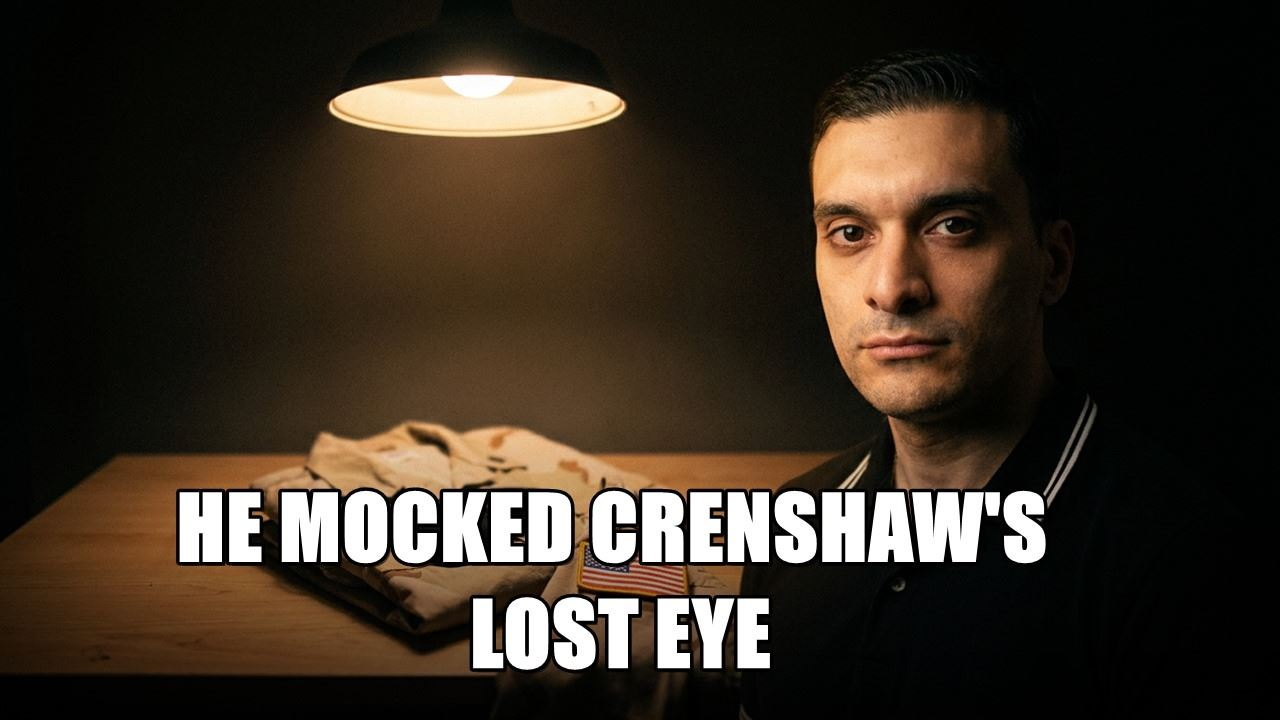
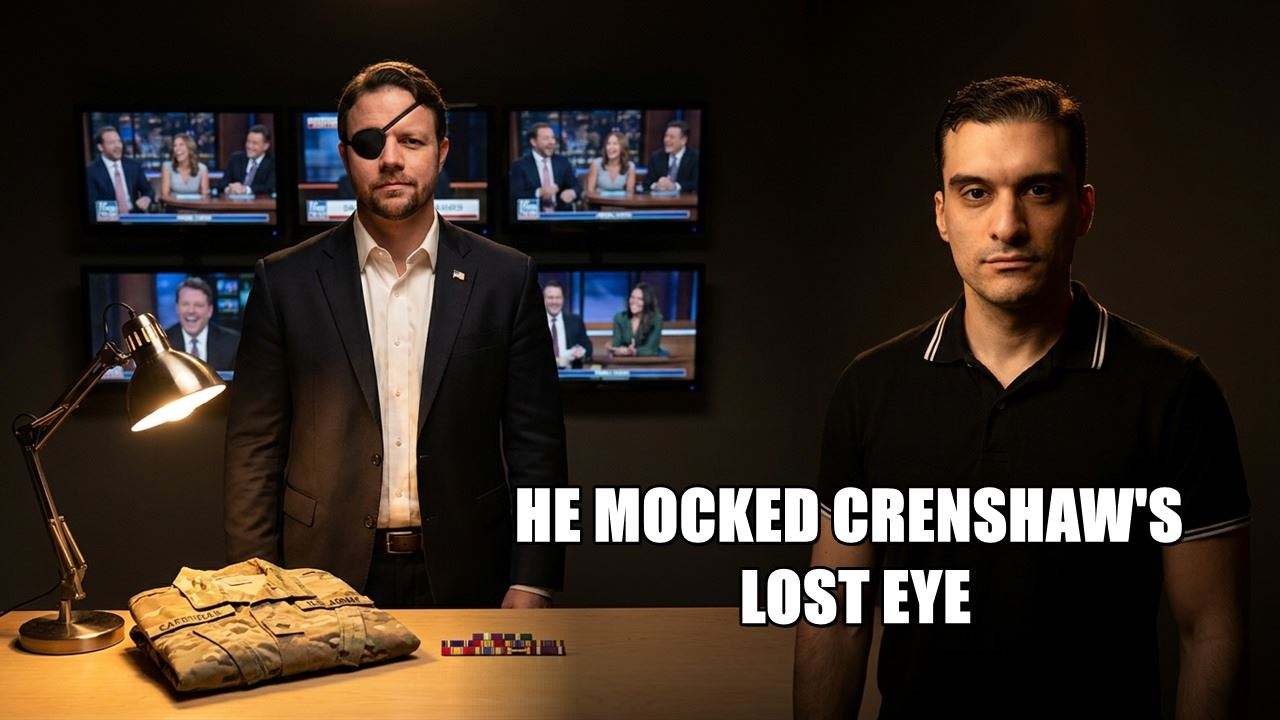
dashboards 2026-08-25T09:42:59Z

diff --git a/armin-shows.html b/armin-shows.html
@@ -270,13 +270,13 @@ dialog img{display:block;max-width:94vw;max-height:88vh}
 </header>
 
 <!-- Self-checking freshness banner: the page compares its own build time against the clock. -->
-<div id="freshbar" class="fresh" data-built="2026-08-25T09:19:45Z">
+<div id="freshbar" class="fresh" data-built="2026-08-25T09:42:58Z">
   <div class="fresh-l">
-    <b id="freshtitle">This page was updated Tue Aug 25, 17:19</b>
+    <b id="freshtitle">This page was updated Tue Aug 25, 17:42</b>
     <span id="freshage"></span>
   </div>
-  <span class="newtoday" id="newtoday" data-new="2"
-        title="Clips whose covers finished in the last 24 hours">New today: 2</span>
+  <span class="newtoday" id="newtoday" data-new="3"
+        title="Clips whose covers finished in the last 24 hours">New today: 3</span>
   <button type="button" id="freshreload" class="fresh-btn" hidden>Get the newest version</button>
 </div>
 
@@ -2858,32 +2858,8 @@ Join our daily group calls: https://www.skool.com/libertypolitics/about</p>
     <div class="vidwhy" hidden><textarea class="vidtext" rows="2" placeholder="Why are you not using this video? e.g. it starts in the middle of a sentence; it repeats the same point twice; the ending is cut off"></textarea></div>
     <div class="means none" aria-live="polite">Not answered yet.</div>
   </div>
-  <div class="cliptime">Added Aug 14 &middot; Covers made Aug 14 &middot; Ready Aug 22 &middot; <b>18:21</b></div>
+  <div class="cliptime">Added Aug 14 &middot; Covers made Aug 25 &middot; Ready Aug 22 &middot; <b>18:21</b></div>
   <div class="covers">
-    <div class="cov" data-var="C" data-head="HE MOCKED CRENSHAW&#39;S LOST EYE" data-title="He Mocked the Eye Dan Crenshaw Lost in Afghanistan (And Called It Satire)">
-      <button class="zoombtn" type="button" aria-label="Enlarge cover C"><img src="img/2026-08-14-english-S5-C.jpg" alt="Cover C: HE MOCKED CRENSHAW&#39;S LOST EYE" loading="lazy"><span class="zoomhint">Tap to enlarge</span></button>
-      <div class="covdec">
-        <div class="decq">&#128444;&#65039; This cover C</div>
-        <div class="decbtns">
-          <button class="db covdb" type="button" data-d="yes" aria-pressed="false">Using it</button>
-          <button class="db covdb" type="button" data-d="no" aria-pressed="false">Not using it</button>
-        </div>
-      </div>
-      <div class="ttlline"><b>C</b> - He Mocked the Eye Dan Crenshaw Lost in Afghanistan (And Called It Satire)</div>
-      <div class="covdec">
-        <div class="decq">&#9999;&#65039; This title C</div>
-        <div class="decbtns">
-          <button class="db ttldb" type="button" data-d="yes" aria-pressed="false">Using it</button>
-          <button class="db ttldb" type="button" data-d="no" aria-pressed="false">Not using it</button>
-        </div>
-      </div>
-      <div class="ttlwhy" hidden><textarea class="ttltext" rows="2" placeholder="Why not this title? A few words is enough. e.g. it says secret and nobody said secret; it is about the last 20 seconds, not the video"></textarea></div>
-      <div class="covacts">
-        <button class="minibtn" type="button" data-copy="title">Copy title</button>
-        <a class="minibtn dlbtn" download="He Mocked the Eye Dan Crenshaw Lost in Afghanistan (And Called It Satire) - C.jpg" href="#" title="He Mocked the Eye Dan Crenshaw Lost in Afghanistan (And Called It Satire) - C.jpg">Save this cover</a>
-      </div>
-      <div class="covwhy" hidden><textarea class="whytext" rows="2" placeholder="Why not this cover? A few words is enough. e.g. that is not Armin, text covers his face, the hosts are too small"></textarea></div>
-    </div>
     <div class="cov" data-var="A" data-head="AMERICA DESERVED 9/11, HE SAID" data-title="&#39;America Deserved 9/11&#39;: The Quotes Democrats Accepted an Endorsement From">
       <button class="zoombtn" type="button" aria-label="Enlarge cover A"><img src="img/2026-08-14-english-S5-A.jpg" alt="Cover A: AMERICA DESERVED 9/11, HE SAID" loading="lazy"><span class="zoomhint">Tap to enlarge</span></button>
       <div class="covdec">
@@ -2929,6 +2905,30 @@ Join our daily group calls: https://www.skool.com/libertypolitics/about</p>
       <div class="covacts">
         <button class="minibtn" type="button" data-copy="title">Copy title</button>
         <a class="minibtn dlbtn" download="A Senate Candidate Took an Endorsement From the Man Who Said All This - B.jpg" href="#" title="A Senate Candidate Took an Endorsement From the Man Who Said All This - B.jpg">Save this cover</a>
+      </div>
+      <div class="covwhy" hidden><textarea class="whytext" rows="2" placeholder="Why not this cover? A few words is enough. e.g. that is not Armin, text covers his face, the hosts are too small"></textarea></div>
+    </div>
+    <div class="cov" data-var="C" data-head="HE MOCKED CRENSHAW&#39;S LOST EYE" data-title="He Mocked the Eye Dan Crenshaw Lost in Afghanistan (And Called It Satire)">
+      <button class="zoombtn" type="button" aria-label="Enlarge cover C"><img src="img/2026-08-14-english-S5-C.jpg" alt="Cover C: HE MOCKED CRENSHAW&#39;S LOST EYE" loading="lazy"><span class="zoomhint">Tap to enlarge</span></button>
+      <div class="covdec">
+        <div class="decq">&#128444;&#65039; This cover C</div>
+        <div class="decbtns">
+          <button class="db covdb" type="button" data-d="yes" aria-pressed="false">Using it</button>
+          <button class="db covdb" type="button" data-d="no" aria-pressed="false">Not using it</button>
+        </div>
+      </div>
+      <div class="ttlline"><b>C</b> - He Mocked the Eye Dan Crenshaw Lost in Afghanistan (And Called It Satire)</div>
+      <div class="covdec">
+        <div class="decq">&#9999;&#65039; This title C</div>
+        <div class="decbtns">
+          <button class="db ttldb" type="button" data-d="yes" aria-pressed="false">Using it</button>
+          <button class="db ttldb" type="button" data-d="no" aria-pressed="false">Not using it</button>
+        </div>
+      </div>
+      <div class="ttlwhy" hidden><textarea class="ttltext" rows="2" placeholder="Why not this title? A few words is enough. e.g. it says secret and nobody said secret; it is about the last 20 seconds, not the video"></textarea></div>
+      <div class="covacts">
+        <button class="minibtn" type="button" data-copy="title">Copy title</button>
+        <a class="minibtn dlbtn" download="He Mocked the Eye Dan Crenshaw Lost in Afghanistan (And Called It Satire) - C.jpg" href="#" title="He Mocked the Eye Dan Crenshaw Lost in Afghanistan (And Called It Satire) - C.jpg">Save this cover</a>
       </div>
       <div class="covwhy" hidden><textarea class="whytext" rows="2" placeholder="Why not this cover? A few words is enough. e.g. that is not Armin, text covers his face, the hosts are too small"></textarea></div>
     </div>

diff --git a/ali-costreams.html b/ali-costreams.html
@@ -270,13 +270,13 @@ dialog img{display:block;max-width:94vw;max-height:88vh}
 </header>
 
 <!-- Self-checking freshness banner: the page compares its own build time against the clock. -->
-<div id="freshbar" class="fresh" data-built="2026-08-25T09:08:49Z">
+<div id="freshbar" class="fresh" data-built="2026-08-25T09:32:00Z">
   <div class="fresh-l">
-    <b id="freshtitle">This page was updated Tue Aug 25, 17:08</b>
+    <b id="freshtitle">This page was updated Tue Aug 25, 17:31</b>
     <span id="freshage"></span>
   </div>
-  <span class="newtoday none" id="newtoday" data-new="0"
-        title="Clips whose covers finished in the last 24 hours">New today: 0</span>
+  <span class="newtoday" id="newtoday" data-new="1"
+        title="Clips whose covers finished in the last 24 hours">New today: 1</span>
   <button type="button" id="freshreload" class="fresh-btn" hidden>Get the newest version</button>
 </div>
 
@@ -3499,7 +3499,7 @@ Talk to Ali in his group calls: https://www.skool.com/libertypolitics/about?ref=
     <div class="vidwhy" hidden><textarea class="vidtext" rows="2" placeholder="Why are you not using this video? e.g. it starts in the middle of a sentence; it repeats the same point twice; the ending is cut off"></textarea></div>
     <div class="means none" aria-live="polite">Not answered yet.</div>
   </div>
-  <div class="cliptime">Added Aug 15 &middot; Covers made Aug 23 &middot; Ready Aug 23 &middot; <b>3:08</b> <span class="nomid">no mid-roll</span></div>
+  <div class="cliptime">Added Aug 15 &middot; Covers made Aug 25 &middot; Ready Aug 23 &middot; <b>3:08</b> <span class="nomid">no mid-roll</span></div>
   <div class="covers">
     <div class="cov" data-var="A" data-head="THE CIA SAYS THE HEIR IS ALIVE" data-title="THE CIA SAYS MOJTABA IS ALIVE">
       <button class="zoombtn" type="button" aria-label="Enlarge cover A"><img src="img/2026-08-15-ali-S1-A.jpg" alt="Cover A: THE CIA SAYS THE HEIR IS ALIVE" loading="lazy"><span class="zoomhint">Tap to enlarge</span></button>

diff --git a/guy-shows.html b/guy-shows.html
@@ -270,9 +270,9 @@ dialog img{display:block;max-width:94vw;max-height:88vh}
 </header>
 
 <!-- Self-checking freshness banner: the page compares its own build time against the clock. -->
-<div id="freshbar" class="fresh" data-built="2026-08-25T09:09:10Z">
+<div id="freshbar" class="fresh" data-built="2026-08-25T09:32:19Z">
   <div class="fresh-l">
-    <b id="freshtitle">This page was updated Tue Aug 25, 17:09</b>
+    <b id="freshtitle">This page was updated Tue Aug 25, 17:32</b>
     <span id="freshage"></span>
   </div>
   <span class="newtoday none" id="newtoday" data-new="0"

diff --git a/guy-picks.html b/guy-picks.html
@@ -1017,7 +1017,7 @@
     <textarea id="report" readonly></textarea>
     <p class="note">Copied. Paste it straight into Telegram.</p>
   </div>
-  <p class="built">50 topics across 6 streams. Updated 2026-08-25T09:09:11Z.</p>
+  <p class="built">50 topics across 6 streams. Updated 2026-08-25T09:32:20Z.</p>
 </div>
 
 <div class="bar">
